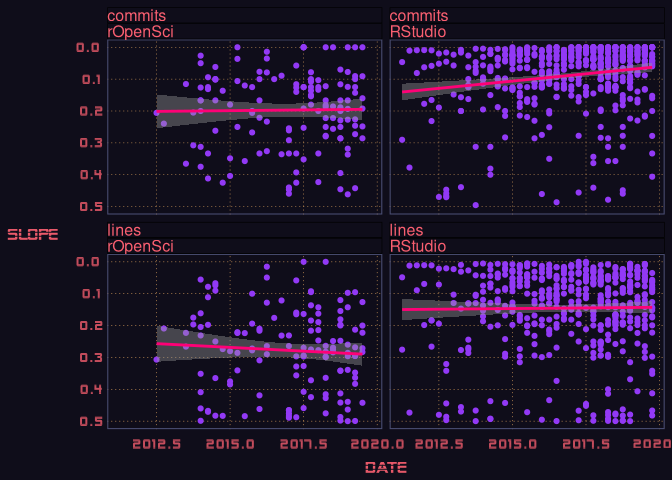
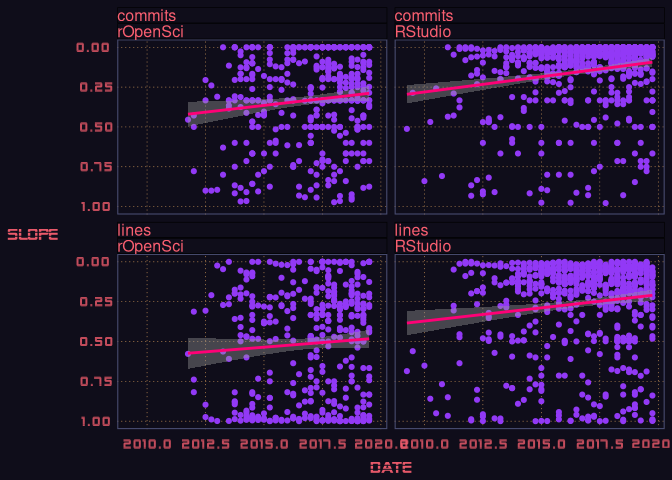
update authors-per-time-interval: min_len = 2 not 3

diff --git a/README.md b/README.md
@@ -237,12 +237,12 @@ contributions.
 
 ``` r
 dat <- readRDS ("results-rstudio.Rds")
-commits_rst <- stats_commits (dat, min_len = 3)
-lines_rst <- stats_lines (dat, min_len = 3)
+commits_rst <- stats_commits (dat)
+lines_rst <- stats_lines (dat)
 np_commits_rst <- prop_np_commits (dat)
 dat <- readRDS ("results-ropensci.Rds")
-commits_ros <- stats_commits (dat, min_len = 3)
-lines_ros <- stats_lines (dat, min_len = 3)
+commits_ros <- stats_commits (dat)
+lines_ros <- stats_lines (dat)
 np_commits_ros <- prop_np_commits (dat)
 
 commits_rst$org <- "RStudio"
@@ -251,11 +251,11 @@ commits_ros$org <- "rOpenSci"
 lines_ros$org <- "rOpenSci"
 
 mean (commits_ros$slope, na.rm = TRUE); mean (commits_rst$slope, na.rm = TRUE)
-#> [1] -0.1971116
-#> [1] -0.08861197
+#> [1] -0.3324508
+#> [1] -0.1510639
 mean (lines_ros$slope, na.rm = TRUE); mean (lines_rst$slope, na.rm = TRUE)
-#> [1] -0.2778733
-#> [1] -0.1451193
+#> [1] -0.5132642
+#> [1] -0.2597777
 
 results <- rbind (commits_rst,
                   commits_ros,
